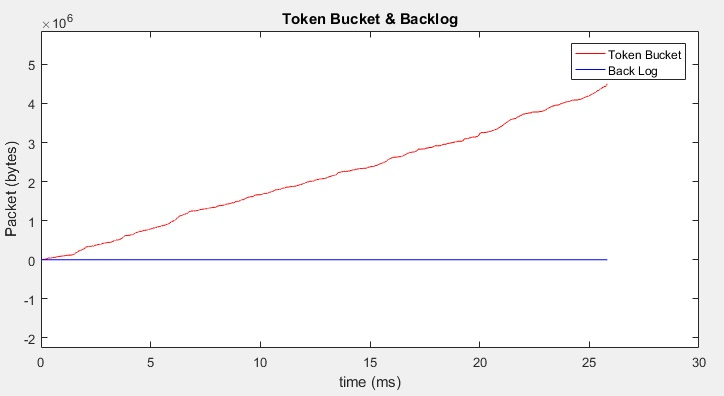
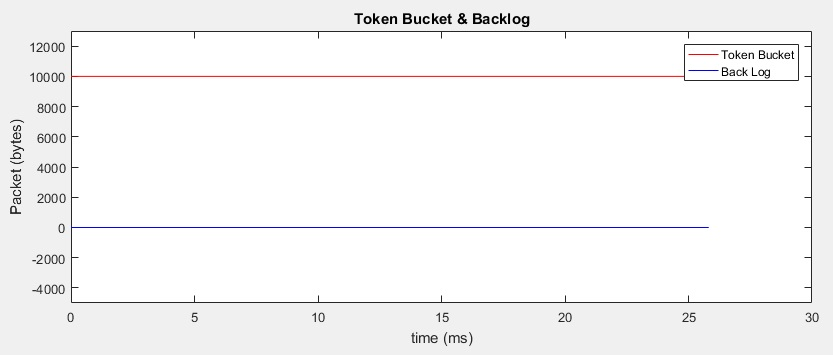
Fixed Poisson analyzer (part 3.2).

diff --git a/lab2a/part3/TrafficGeneratorPos.java b/lab2a/part3/TrafficGeneratorPos.java
@@ -1,0 +1,155 @@
+import java.io.*;
+import java.net.DatagramPacket;
+import java.net.DatagramSocket;
+import java.net.InetAddress;
+import java.util.*;
+
+
+public class TrafficGeneratorPos
+{
+    public static ArrayList<DataLine> dataList;
+
+
+    public static void makeUdpPackets(String inFile, String recvHost, int port)
+    {
+        BufferedReader bfReader = null;
+
+        String currentLine;
+        StringTokenizer st = null;
+        try
+        {
+            InetAddress sendIP = InetAddress.getByName(recvHost);
+
+            File fin = new File(inFile);
+            FileReader fis = new FileReader(fin);
+            bfReader = new BufferedReader(fis);
+
+            String col1,col2,col3;
+            int SeqNo, frameSize, prevTime = 0, nextTime, delayinNs;
+
+            //first packet is transmitted without a delay
+            if((currentLine = bfReader.readLine()) != null)
+            {
+                st = new StringTokenizer(currentLine);
+                col1 = st.nextToken();
+                col2 = st.nextToken();
+                col3  = st.nextToken();
+
+                SeqNo = Integer.parseInt(col1);
+                frameSize = Integer.parseInt(col3);
+                prevTime = Integer.parseInt(col2);
+                delayinNs = 0;//first packet is transmitted without a delay
+
+                dataList.add(new DataLine(SeqNo,delayinNs, frameSize,
+                        new DatagramPacket(new byte[frameSize],frameSize,sendIP,port)));
+            }
+
+            while((currentLine = bfReader.readLine()) != null)
+            {
+                st = new StringTokenizer(currentLine);
+                col1 = st.nextToken();
+                col2 = st.nextToken();
+                col3  = st.nextToken();
+
+                SeqNo = Integer.parseInt(col1);
+                nextTime = Integer.parseInt(col2);//in microseconds
+                frameSize = Integer.parseInt(col3);//in bytes
+
+                //re-scale values
+                delayinNs = (nextTime - prevTime);
+                prevTime = nextTime;
+
+                //adds dataLine to the end of dataList
+                dataList.add(new DataLine(SeqNo, delayinNs, frameSize,
+                        new DatagramPacket(new byte[frameSize],frameSize,sendIP,port)));
+            }
+        }
+        catch (Exception ex)
+        {
+            System.out.println(ex.getMessage());
+        }
+        finally
+        {
+            // Close files
+            if (bfReader != null) {
+                try {
+                    bfReader.close();
+
+                } catch (IOException e) {
+                    System.out.println("IOException: " +  e.getMessage());
+                }
+            }
+        }
+    }
+    public static void sendUdpPackets()
+    {
+        try {
+            DatagramSocket sendSocket = new DatagramSocket();
+            double waitTime, sendTime, currTime;
+
+            sendSocket.send(dataList.get(0).udpPacket);//1st packet without delay
+
+            int i;
+            for (i = 1; i < dataList.size(); i++)
+            {
+                waitTime = dataList.get(i).delayInNs;
+                currTime = System.nanoTime()/1000;
+
+                sendTime = currTime + waitTime;
+                while (currTime < sendTime)//busy wait to create artificial delay
+                {
+                    currTime = System.nanoTime()/1000;
+                }
+                //prevPktSendTime = currTime;
+                sendSocket.send(dataList.get(i).udpPacket);
+            }
+            System.out.println(i + " packets sent!");
+            sendSocket.close();
+        }
+        catch(IOException ex)
+        {
+            System.out.println("Datagramsocket exception in sendUdpPackets()\n"
+                    + ex.getMessage());
+        }
+    }
+    public static void main (String[] args)
+    {
+        String inputFile = "poisson3.data", debugFile = "TGenPos.txt";
+        dataList = new ArrayList<>();
+        int sendPort = 50000;
+
+        String sendhost = null;
+        try {
+            sendhost = args[0];
+        }
+        catch(Exception ex)
+        {
+            System.out.println("Provide receiver's IP as cmd-line arg (ex. localhost or 192.168.0.12)");
+        }
+        makeUdpPackets(inputFile,sendhost,sendPort);
+
+        printToFile(debugFile);//output SeqNo & Time to file (for debugging only)
+
+        sendUdpPackets();
+    }
+
+    public static void printToFile(String dbgFile)
+    {
+        PrintStream debugOut = null;
+        try
+        {
+            FileOutputStream fout = new FileOutputStream(dbgFile);
+            debugOut = new PrintStream(fout);
+        }
+        catch(IOException ex)
+        {
+            System.out.println("File exception in printToFile()\n" + ex.getMessage());
+        }
+        for (int i = 0; i < dataList.size(); i++)
+        {
+            debugOut.printf("%-7s %-10s %s\n",
+                    dataList.get(i).SeqNo, dataList.get(i).delayInNs,
+                    dataList.get(i).packetSize);
+        }
+    }
+}

diff --git a/lab2a/part3/poisson.m b/lab2a/part3/poisson.m
@@ -1,0 +1,93 @@
+clc
+clear all
+
+%data of trace file
+[seqNo,t_p,size_p] = textread('TGenPos.txt', '%f %f %f');
+
+figure(1);
+time_depart = zeros(1,size(seqNo,1));
+Tgen_depart = zeros(1,size(seqNo,1));
+
+time_depart(1) = t_p(1);
+Tgen_depart(1) = size_p(1);
+i = 2;
+while i<=size(seqNo,1)
+    time_depart(i) = time_depart(i - 1) + t_p(i);
+    Tgen_depart(i) = Tgen_depart(i - 1) + size_p(i);
+    i=i+1;
+end
+    
+subplot(3,1,1);
+plot(time_depart,Tgen_depart);
+title('Traffic Generator - Trace');
+xlabel('Time (ms)');
+ylabel('Packet (bytes)');
+
+
+%Arrivals at the token bucket
+[recv_time, size_tb, buffer_bk_log, tokens] = textread('bucketPos.txt', '%f %f %f %f');
+time_bucket = zeros(1,size(seqNo,1));
+bucket_arrival = zeros(1,size(seqNo,1));
+
+%recv_time = recv_time/1000000;
+
+time_bucket(1) = recv_time(1);
+bucket_arrival(1) = 0;
+
+i = 2;
+while i<=size(seqNo,1)
+    time_bucket(i) = time_bucket(i - 1) + recv_time(i);
+    bucket_arrival(i) = bucket_arrival(i - 1) + size_tb(i);
+    i=i+1;
+end
+
+subplot(3,1,2);
+plot(time_bucket,bucket_arrival);
+title('Arrival At Token Bucket');
+xlabel('time (ms)');
+ylabel('Packet (bytes)');
+
+
+%Arrivals at the Traffic Sink
+[seqNo,t_p,size_p] = textread('TSinkPos.txt', '%f %f %f');
+
+time_sink = zeros(1,size(seqNo,1));
+sink_arrival = zeros(1,size(seqNo,1));
+
+time_sink(1) = 0;
+sink_arrival(1) = size_p(1);
+i = 2;
+while i<=size(seqNo,1)
+    time_sink(i) = time_sink(i - 1) + t_p(i);
+    sink_arrival(i) = sink_arrival(i - 1) + size_p(i);
+    i=i+1;
+end
+    
+subplot(3,1,3);
+plot(time_sink,sink_arrival); 
+title('Traffic Sink - Output');
+xlabel('Time (ms)');
+ylabel('Packet (bytes)');
+
+%All 3 plots on 1 graph
+figure(2);
+subplot(2,1,1);
+fig2 = plot(time_depart,Tgen_depart,'r',time_bucket,bucket_arrival,'g',time_sink,sink_arrival,'b');
+hold on;
+legend(fig2, 'Trace', 'Shaper', 'Sink');
+title('Trace, Shaper & Sink Graphs');
+xlabel('Time (ms)');
+ylabel('Packet (bytes)');
+
+
+%Shows contents of token bucket and buffer backlog as a function of time
+figure(3);
+subplot(2,1,1);
+fig3 = plot(time_bucket,tokens,'r',time_bucket,buffer_bk_log,'b');
+hold on;
+legend(fig3,'Token Bucket', 'Back Log');
+title('Token Bucket & Backlog');
+xlabel('time (ms)');
+ylabel('Packet (bytes)');
+ylim([-0.5* max(tokens) 1.3*max(tokens)]);
+

diff --git a/lab2a/part3/TrafficSinkPos.java b/lab2a/part3/TrafficSinkPos.java
@@ -1,0 +1,69 @@
+import java.io.FileOutputStream;
+import java.io.PrintStream;
+import java.net.DatagramPacket;
+import java.net.DatagramSocket;
+import java.net.InetAddress;
+
+class TrafficSinkPos
+{
+    public static void main (String[] args)
+    {
+        String outputFile = "TSinkPos.txt";
+
+        PrintStream recvTraffic = null;
+        int recvPort = 50001;//use the same port as in TrafficGenerator.java
+        byte[] recvBuf = new byte[1500];//no size is close to this in poisson3.data
+
+        int currSeqNo = 1, recvLimit = 10000;
+
+        try
+        {
+            //System.out.println( "Running at: " + InetAddress.getByName("localhost"));
+            DatagramSocket recvSocket = new DatagramSocket(recvPort);
+            DatagramPacket recvPacket = new DatagramPacket(recvBuf,recvBuf.length);
+            FileOutputStream fout = new FileOutputStream(outputFile);
+            recvTraffic = new PrintStream(fout);
+
+            int timeoutWindow = 10000;//in ms
+            System.out.println("Traffic Sink Times out in " + timeoutWindow + "ms ...");
+
+            long currTime, packetRecvTime, timeDiff;
+
+            while(currSeqNo < recvLimit)
+            {
+                recvSocket.setSoTimeout(timeoutWindow);//receiver closes (milliseconds)
+                currTime = System.nanoTime();
+                recvSocket.receive(recvPacket);
+
+                packetRecvTime = System.nanoTime();
+                if(currSeqNo != 1)
+                {
+                    timeDiff = (packetRecvTime - currTime) / 1_000;
+                }
+                else
+                {
+                    timeDiff = 0;
+                }
+                //System.out.println("Packet " + currSeqNo + " received");
+
+                recvTraffic.printf("%-7s %-7s %s\n",
+                        currSeqNo, timeDiff, recvPacket.getLength());
+                currSeqNo++;
+
+            }
+
+            System.out.println(currSeqNo + " packets received!");
+            recvTraffic.close();
+        }
+        catch(Exception ex)
+        {
+            System.out.println(ex.getMessage());
+            if(recvTraffic != null)
+            {
+                recvTraffic.close();
+            }
+        }
+        recvTraffic.close();
+    }
+
+}

diff --git a/lab2a/part3/PoissonMain.java b/lab2a/part3/PoissonMain.java
@@ -1,0 +1,12 @@
+import TokenBucket.TokenBucket;
+
+public class PoissonMain
+{
+    public static void main (String[] args)
+    {
+        TokenBucket posbucket = new TokenBucket(50000, "localhost", 50001, 1500,
+                100*1500, 10000, 5000, "bucketPos.txt");
+
+        new Thread (posbucket).start();
+    }
+}
